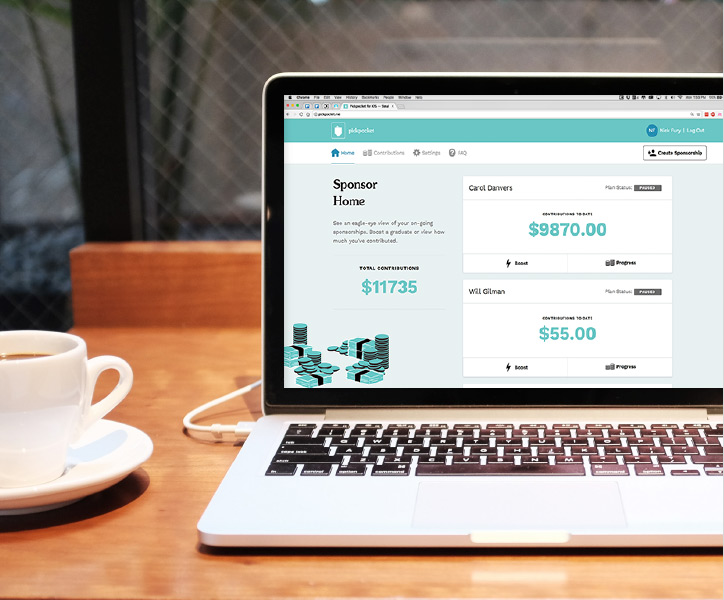
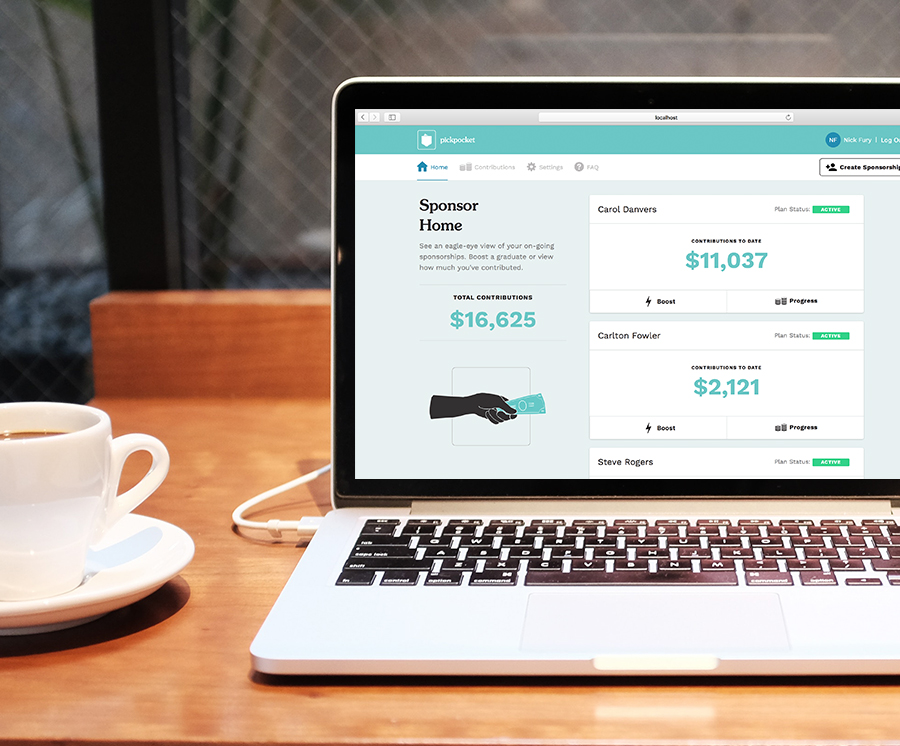
_ Making Auth.js turn funnel off upon login
- Updating bank lnking image and tracking grad progress images on sponsor homepage

diff --git a/client/js/auth/Auth.js b/client/js/auth/Auth.js
@@ -6,9 +6,9 @@
 \*------------------------------------*/
 
 twopence.factory('Auth', [
-  '$q', 'ENV', '$http', '$cookies', '$rootScope', 'Session',
+  '$q', 'ENV', '$http', '$cookies', '$rootScope', 'Session', 'Funnel',
   function(
-    $q, ENV, $http, $cookies, $rootScope, Session) {
+    $q, ENV, $http, $cookies, $rootScope, Session, Funnel) {
 
 
     var auth = {};
@@ -27,6 +27,7 @@ twopence.factory('Auth', [
             $cookies.put('loggedIn', true);
             $cookies.put('userToken', token);
             $cookies.put('sponsorId', res.data.sponsor_id);
+            Funnel.setState(false); 
             var alias = 'Sponsor:' + res.data.sponsor_id;
             mixpanel.identify(alias);
             console.log("You are logged in: " + $cookies.get('loggedIn'));

diff --git a/client/css/main.css b/client/css/main.css
@@ -20214,7 +20214,7 @@ body.fancymodal-open {
   /* line 98, ../scss/pages/_sponsorView.scss */
   .sponsorSection-illustr--dashboard {
     width: 90%;
-    bottom: 8%;
+    top: 17.5rem;
     right: 0;
     left: 0;
     margin: auto;
@@ -20256,7 +20256,7 @@ body.fancymodal-open {
     right: 0;
     left: -2%;
     margin: auto;
-    bottom: 8%;
+    top: 17.5rem;
   }
 }
 

diff --git a/client/scss/pages/_sponsorView.scss b/client/scss/pages/_sponsorView.scss
@@ -106,7 +106,7 @@
 
   @media #{$large-up} {
     width: 90%; 
-    bottom: 8%; 
+    top: rem-calc(280px); 
     right: 0; 
     left: 0; 
     margin: auto; 
@@ -148,7 +148,7 @@
     right: 0; 
     left: -2%; 
     margin: auto; 
-    bottom: 8%; 
+    top: rem-calc(280px); 
 
   }
 
